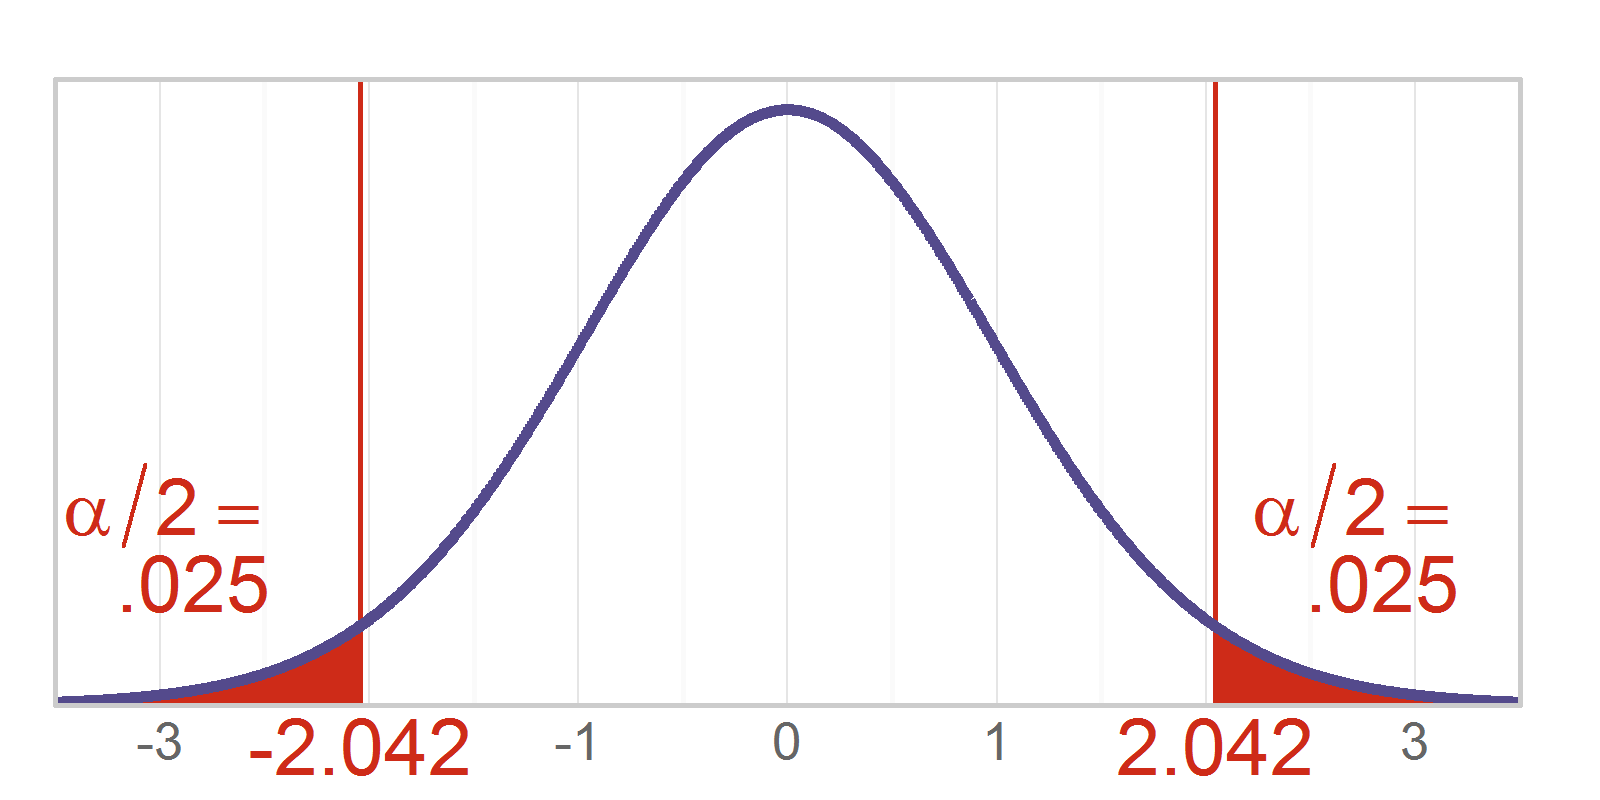
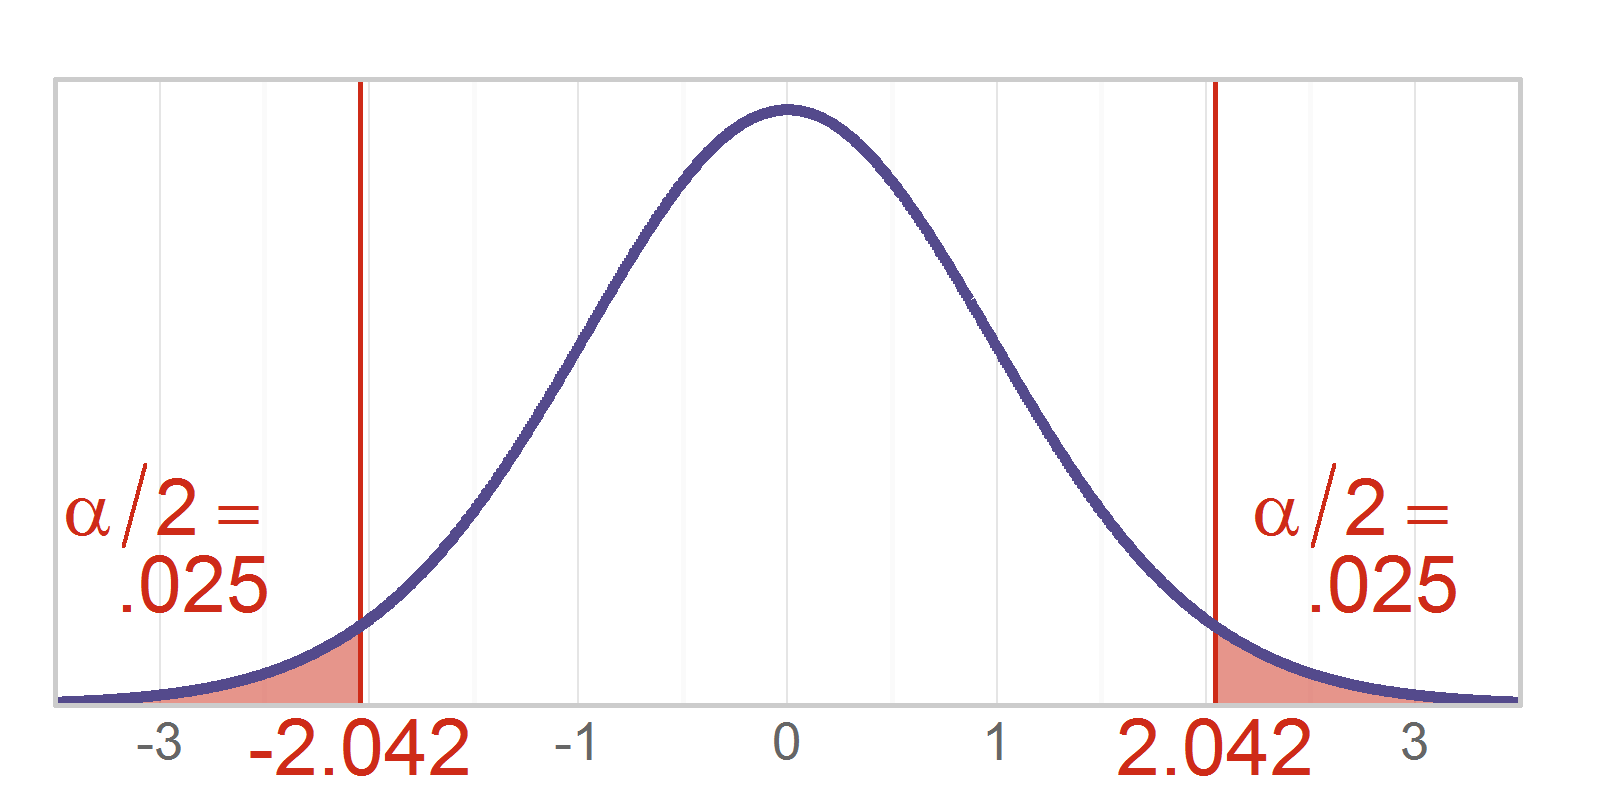
Chapter 09 trails are translucent

Changed region(s): [[0.75, 0.7812, 0.875, 0.9062], [0.0938, 0.8125, 0.25, 0.9062]]

diff --git a/Chapter10/Chapter10.html b/Chapter10/Chapter10.html
@@ -224,7 +224,7 @@ read_chunk(&quot;./Chapter10/Chapter10.R&quot;)
 
 <h2>Figure 10-2</h2>
 
[2 lines of base64/hex data omitted]
 
 <h2>Figure 10-3</h2>
 
@@ -259,10 +259,10 @@ F-statistic: 27.6 on 1 and 64 DF,  p-value: 1.82e-06
 
 <p>For the sake of documentation and reproducibility, the current report was build on a system using the following software.</p>
 
-<pre><code>Report created by Will at 2014-02-21, 12:50:02 -0600
+<pre><code>Report created by Will at 
 </code></pre>
 
-<pre><code>R Under development (unstable) (2014-02-18 r65029)
+<pre><code>R version 3.0.3 Patched (2014-03-06 r65320)
 Platform: x86_64-w64-mingw32/x64 (64-bit)
 
 locale:
@@ -273,13 +273,13 @@ attached base packages:
 [1] grid      stats     graphics  grDevices utils     datasets  methods   base     
 
 other attached packages:
-[1] RColorBrewer_1.0-5 dichromat_2.0-0    extrafont_0.16     ggplot2_0.9.3.1    scales_0.2.3       plyr_1.8.0.99     
+[1] RColorBrewer_1.0-5 dichromat_2.0-0    extrafont_0.16     ggplot2_0.9.3.1    scales_0.2.3       plyr_1.8.1        
 [7] knitr_1.5         
 
 loaded via a namespace (and not attached):
- [1] colorspace_1.2-4 digest_0.6.4     evaluate_0.5.1   extrafontdb_1.0  formatR_0.10     gtable_0.1.2    
- [7] labeling_0.2     MASS_7.3-29      munsell_0.4.2    proto_0.3-10     Rcpp_0.11.0      reshape2_1.2.2  
-[13] Rttf2pt1_1.2     stringr_0.6.2    tools_3.1.0     
+ [1] colorspace_1.2-4 digest_0.6.4     evaluate_0.5.3   extrafontdb_1.0  formatR_0.10     gtable_0.1.2    
+ [7] labeling_0.2     MASS_7.3-29      munsell_0.4.2    proto_0.3-10     Rcpp_0.11.1      reshape2_1.2.2  
+[13] Rttf2pt1_1.3     stringr_0.6.2    tools_3.0.3     
 </code></pre>
 
 </body>

diff --git a/Chapter10/Chapter10.md b/Chapter10/Chapter10.md
@@ -94,11 +94,11 @@ For the sake of documentation and reproducibility, the current report was build 
 
 
 ```
-Report created by Will at 2014-02-21, 12:50:02 -0600
+Report created by Will at 
 ```
 
 ```
-R Under development (unstable) (2014-02-18 r65029)
+R version 3.0.3 Patched (2014-03-06 r65320)
 Platform: x86_64-w64-mingw32/x64 (64-bit)
 
 locale:
@@ -109,12 +109,12 @@ attached base packages:
 [1] grid      stats     graphics  grDevices utils     datasets  methods   base     
 
 other attached packages:
-[1] RColorBrewer_1.0-5 dichromat_2.0-0    extrafont_0.16     ggplot2_0.9.3.1    scales_0.2.3       plyr_1.8.0.99     
+[1] RColorBrewer_1.0-5 dichromat_2.0-0    extrafont_0.16     ggplot2_0.9.3.1    scales_0.2.3       plyr_1.8.1        
 [7] knitr_1.5         
 
 loaded via a namespace (and not attached):
- [1] colorspace_1.2-4 digest_0.6.4     evaluate_0.5.1   extrafontdb_1.0  formatR_0.10     gtable_0.1.2    
- [7] labeling_0.2     MASS_7.3-29      munsell_0.4.2    proto_0.3-10     Rcpp_0.11.0      reshape2_1.2.2  
-[13] Rttf2pt1_1.2     stringr_0.6.2    tools_3.1.0     
+ [1] colorspace_1.2-4 digest_0.6.4     evaluate_0.5.3   extrafontdb_1.0  formatR_0.10     gtable_0.1.2    
+ [7] labeling_0.2     MASS_7.3-29      munsell_0.4.2    proto_0.3-10     Rcpp_0.11.1      reshape2_1.2.2  
+[13] Rttf2pt1_1.3     stringr_0.6.2    tools_3.0.3     
 ```
 
